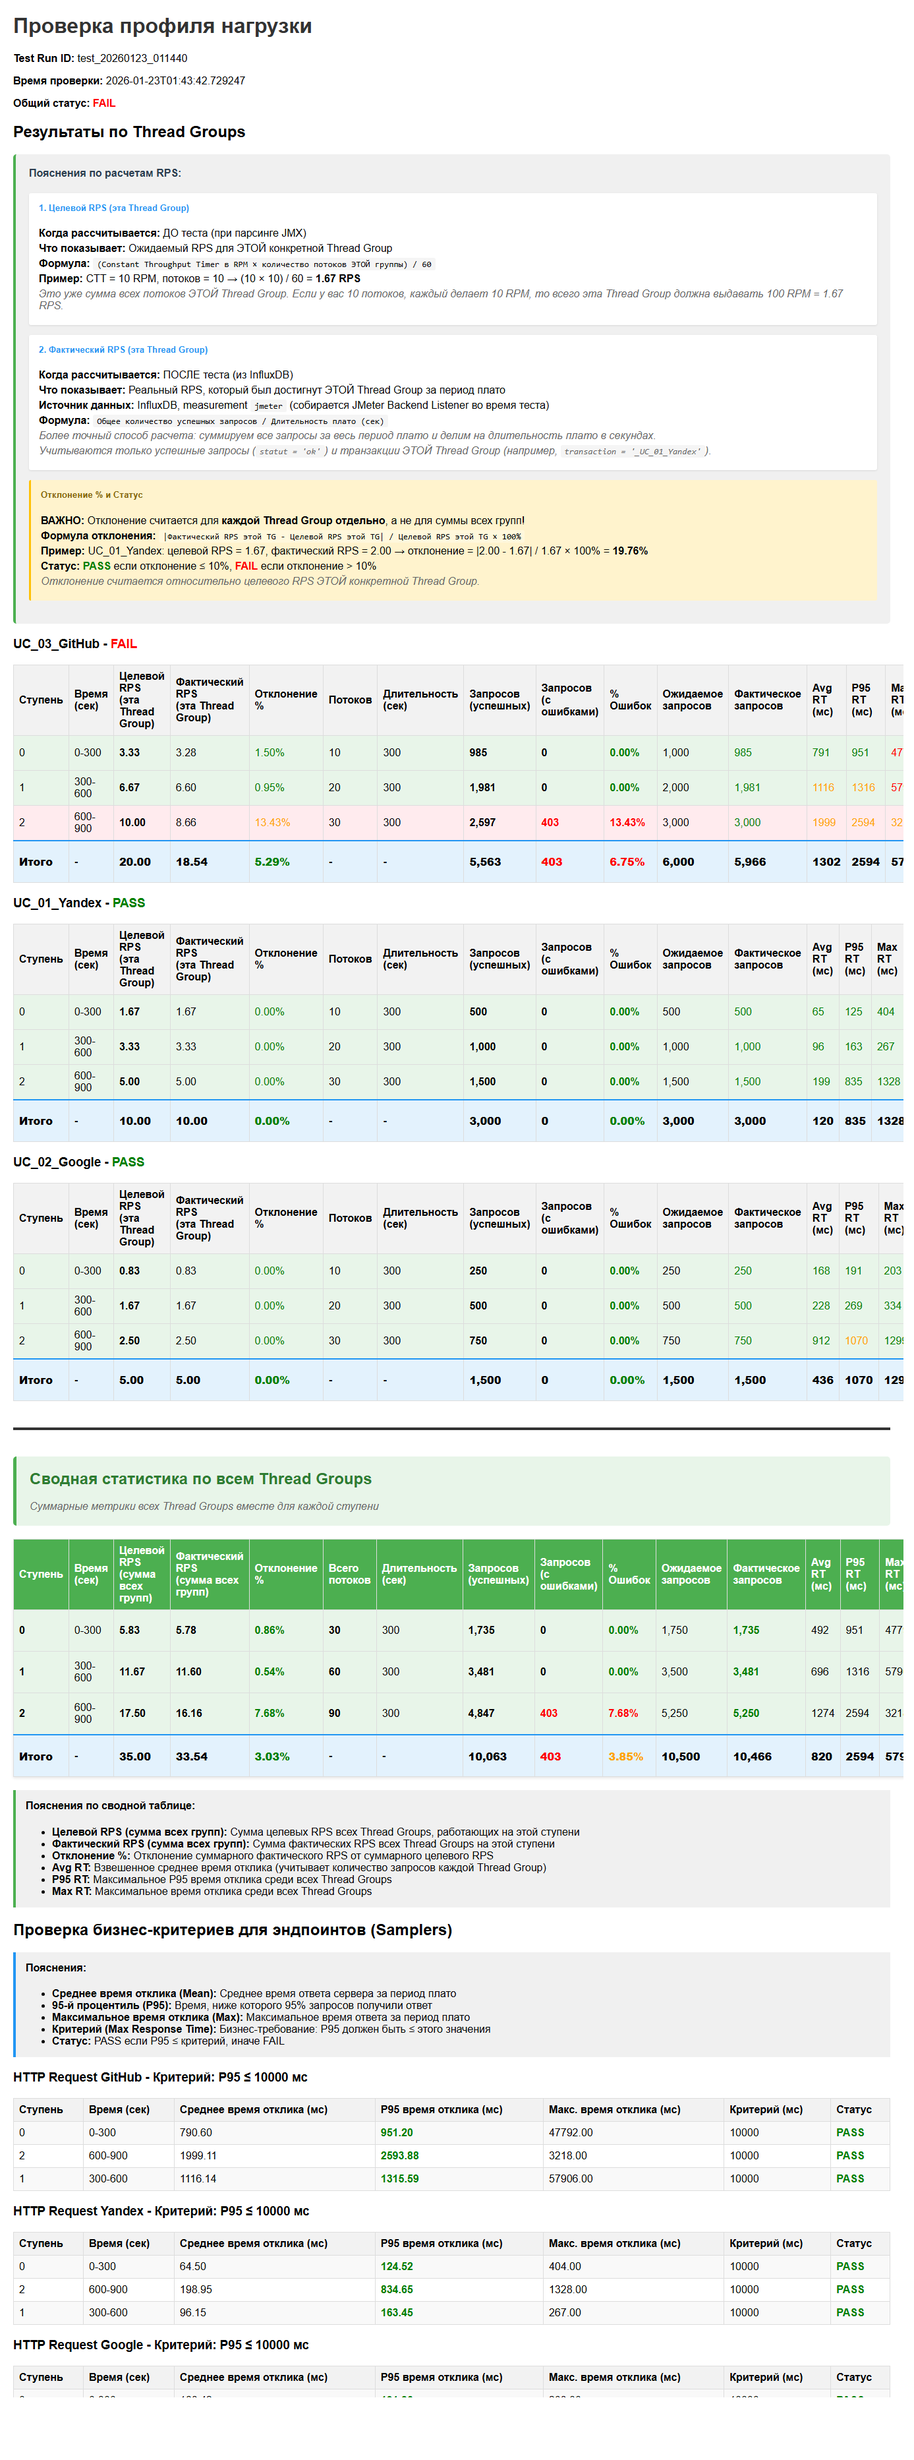
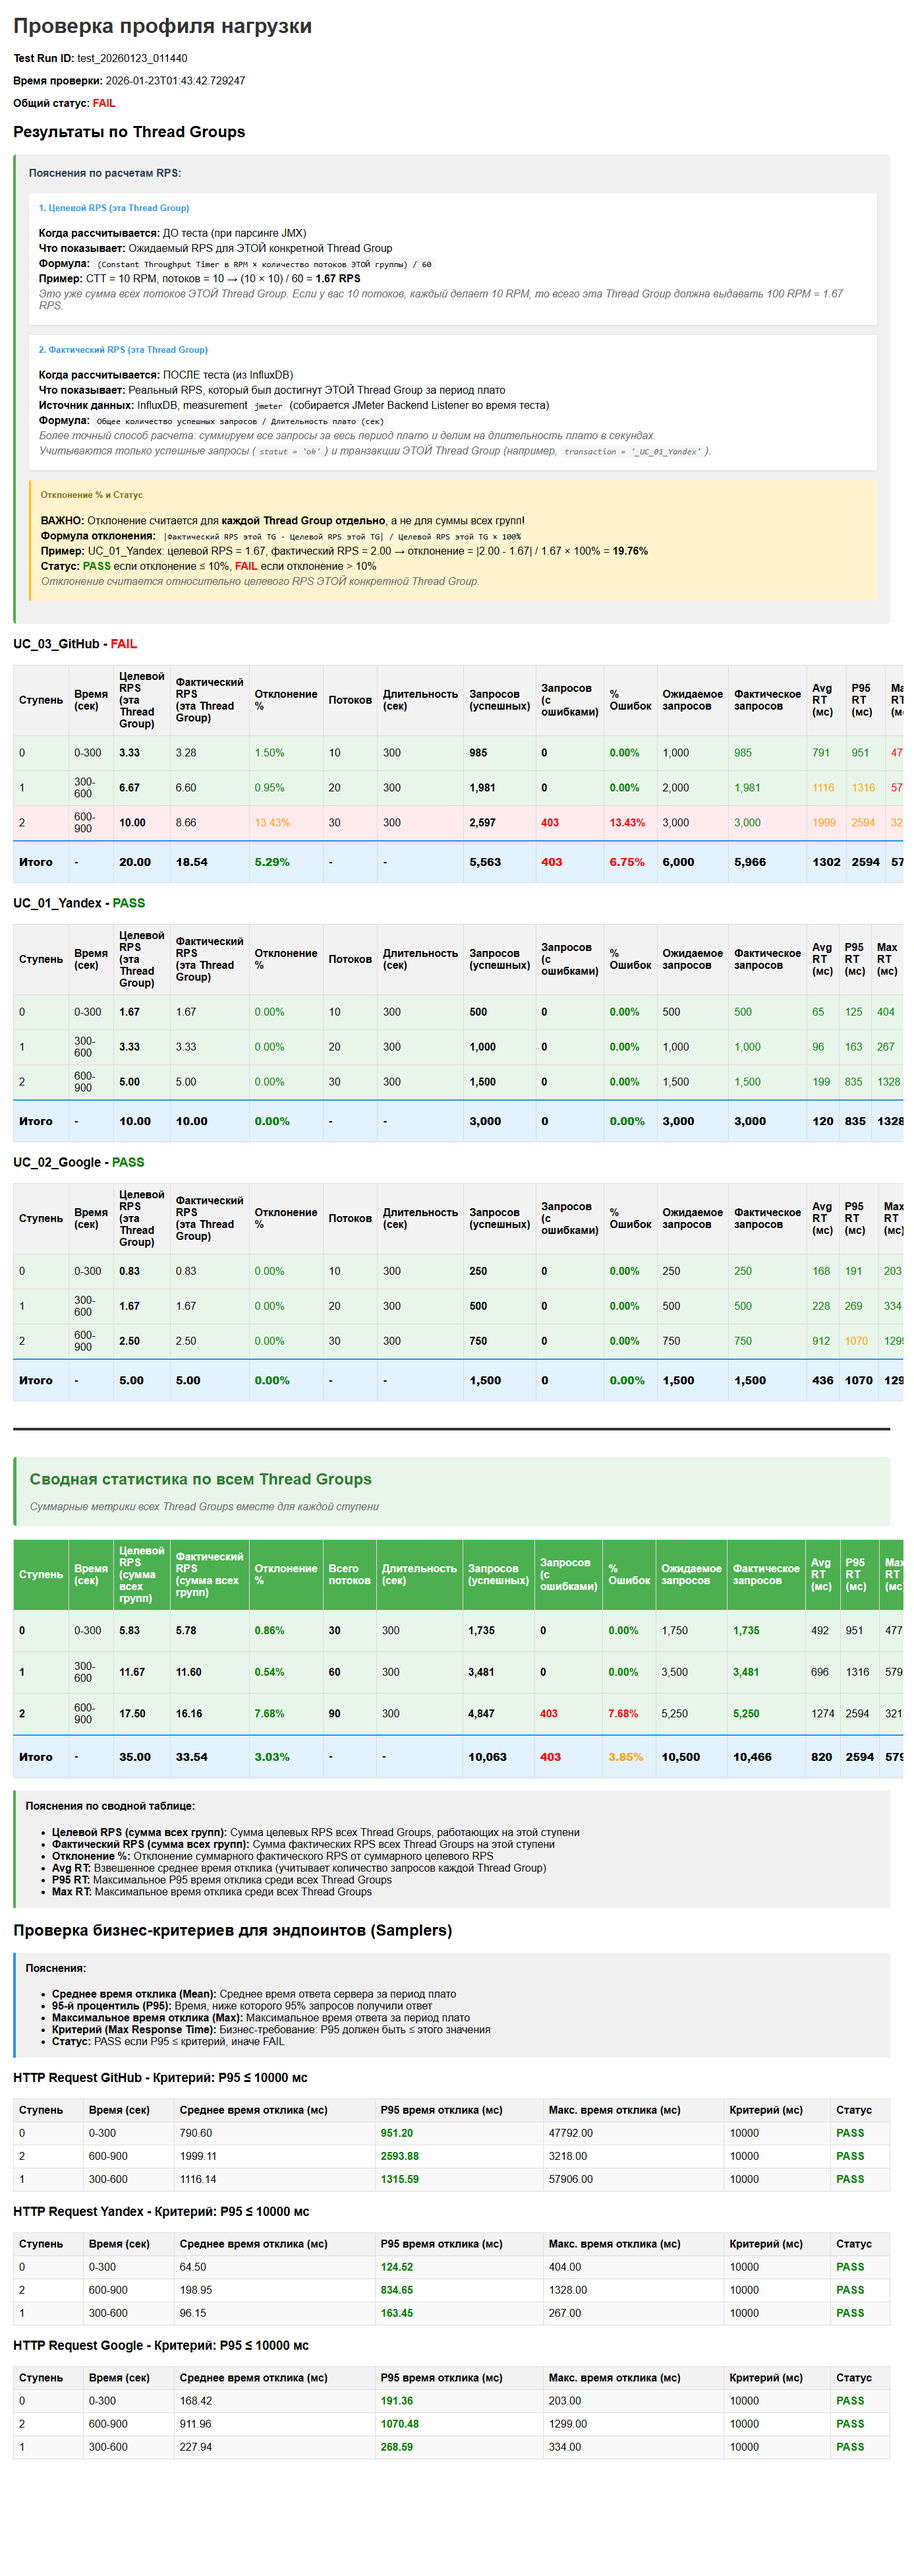
docs: sample PNG height +175px (~4.7 cm at 96 DPI) to 3906

diff --git a/README.ru.md b/README.ru.md
@@ -50,7 +50,7 @@ python check_load_profile.py <test_run_id> influx_config_localhost.json
 
 **Просмотр на GitHub:** файл откроется как исходный код, а не как страница в браузере. Удобнее открыть локально после клонирования (двойной щелчок или `Start-Process` в PowerShell). **Вставить живой HTML в README нельзя** — так устроены GitHub и большинство рендеров Markdown (безопасность).
 
-**Картинка «сразу в README»** — скриншот **всей страницы** отчёта в масштабе окна браузера (~1387×3731 px; на GitHub нажмите на картинку для увеличения):
+**Картинка «сразу в README»** — скриншот **всей страницы** отчёта в масштабе окна браузера (~1387×3906 px; на GitHub нажмите на картинку для увеличения):
 
 ![Пример: полный отчёт о сверке профиля](docs/images/load-profile-check-sample.png)
 

diff --git a/README.md b/README.md
@@ -50,7 +50,7 @@ The script writes an HTML report that compares **target vs actual** load (RPS by
 
 **Viewing on GitHub:** the file is shown as source code, not as a rendered page. After cloning, open it locally (double-click or `Start-Process` in PowerShell). **Embedding HTML inside README is not supported** on GitHub (and most Markdown hosts) for security reasons.
 
-**Preview without opening the file:** use a screenshot in the README (full-page capture at the same viewport size as in the browser, ~1387×3731 px; on GitHub click the image to zoom):
+**Preview without opening the file:** use a screenshot in the README (full-page capture at the same viewport size as in the browser, ~1387×3906 px; on GitHub click the image to zoom):
 
 ![Example: load profile check report (full page)](docs/images/load-profile-check-sample.png)
 
